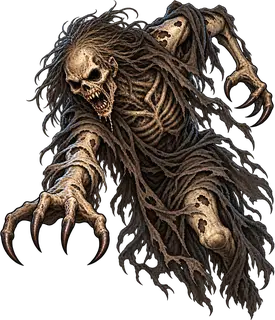
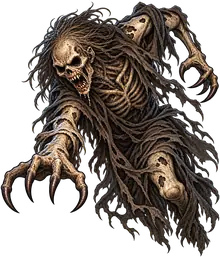
asset: replace graveyard event ghoul with lunging artwork

diff --git a/test_today_20261002.js b/test_today_20261002.js
@@ -444,7 +444,7 @@ assert(battle.includes('(fromMap || fromEvent) && selectedAllySlugs.length'));
 
 assert(mapHtml.includes('id="graveyardStoryArtwork"'));
 assert(mapHtml.includes('id="graveyardStoryGhoulLayer"'), "graveyard event must keep the ghoul as a separate reveal layer");
-assert(mapHtml.includes('src="art/v2-style/map-test/events/graveyard-child-ghoul-event-v3.webp?v=1"'), "graveyard ghoul layer must preload the new event artwork");
+assert(mapHtml.includes('src="art/v2-style/map-test/events/graveyard-child-ghoul-event-v3.webp?v=2"'), "graveyard ghoul layer must preload the new event artwork");
 assert(mapHtml.includes('id="graveyardStoryEffectText"'));
 assert(mapHtml.includes('class="tile-event-enter graveyard-story-choice-button"'));
 assert(mapHtml.includes('class="graveyard-story-frame" src="art/v2-style/ui/intro-dialogue-box.webp?v=6"'));
@@ -453,7 +453,7 @@ assert(map.includes('graveyardStoryGhoulLayer: document.getElementById("graveyar
 assert(map.includes('const GRAVEYARD_EVENT_BASE_ART ='));
 assert(map.includes('"art/v2-style/map-test/events/graveyard-child-base-v3.webp?v=1"'));
 assert(map.includes('const GRAVEYARD_EVENT_GHOUL_ART ='));
-assert(map.includes('"art/v2-style/map-test/events/graveyard-child-ghoul-event-v3.webp?v=1"'), "graveyard story must use the new lunging ghoul artwork");
+assert(map.includes('"art/v2-style/map-test/events/graveyard-child-ghoul-event-v3.webp?v=2"'), "graveyard story must use the new lunging ghoul artwork");
 assert(!map.includes("GRAVEYARD_EVENT_GHOUL_CHUNKS"), "production story must not reconstruct the ghoul from text chunks");
 assert(!map.includes("loadGraveyardGhoulSource"), "obsolete ghoul chunk loader must stay removed");
 assert(!map.includes("ghoul-hq/part-"), "obsolete HQ chunk paths must stay removed");
@@ -478,7 +478,7 @@ assert(mapCss.includes("image-rendering:auto!important"), "browser must use norm
 assert(mapCss.includes("scale(.86)"), "ghoul reveal must begin slightly recessed before lunging into place");
 assert(mapCss.includes("top:39%!important"), "choice buttons must stay above the dialogue window");
 assert(worker.includes("./art/v2-style/map-test/events/graveyard-child-base-v3.webp?v=1"));
-assert(worker.includes("./art/v2-style/map-test/events/graveyard-child-ghoul-event-v3.webp?v=1"), "new graveyard ghoul artwork must be cached");
+assert(worker.includes("./art/v2-style/map-test/events/graveyard-child-ghoul-event-v3.webp?v=2"), "new graveyard ghoul artwork must be cached");
 assert(!worker.includes("ghoul-hq/part-"), "obsolete reconstructed ghoul chunks must not be cached");
 assert(!worker.includes("graveyard-child-ghoul-v2.webp"), "old low-quality ghoul must not be cached");
 assert(map.includes("el.board.appendChild(el.graveyardStoryEvent)"));

diff --git a/v2-map-practice.html b/v2-map-practice.html
@@ -432,7 +432,7 @@
         <div class="graveyard-story-stage" role="dialog" aria-modal="true" aria-label="습격받는 아이 사건">
           <div class="graveyard-story-art-wrap" aria-hidden="true">
             <img id="graveyardStoryArtwork" class="graveyard-story-artwork" src="art/v2-style/map-test/events/graveyard-child-base-v3.webp?v=1" alt="">
-            <img id="graveyardStoryGhoulLayer" class="graveyard-story-ghoul-layer" src="art/v2-style/map-test/events/graveyard-child-ghoul-event-v3.webp?v=1" alt="" hidden>
+            <img id="graveyardStoryGhoulLayer" class="graveyard-story-ghoul-layer" src="art/v2-style/map-test/events/graveyard-child-ghoul-event-v3.webp?v=2" alt="" hidden>
           </div>
           <aside class="graveyard-story-effect-box legion-info-panel" aria-live="polite" aria-label="사건 효과 정보">
             <img class="graveyard-story-effect-frame legion-info-frame-art" src="art/v2-style/ui/legion-info-window-hd.png?v=2" alt="" aria-hidden="true">

diff --git a/service-worker.js b/service-worker.js
@@ -1,4 +1,4 @@
-const CACHE_NAME = "necromancer-and-dice-v2-20261007-graveyard-base-hq-1";
+const CACHE_NAME = "necromancer-and-dice-v2-20261007-graveyard-ghoul-attack-2";
 
 const CORE_ASSETS = [
   "./",
@@ -63,7 +63,7 @@ const CORE_ASSETS = [
   "./assets/event-lab/graveyard-child/ghoul/part-000.txt",
   "./assets/event-lab/graveyard-child/ghoul/part-001.txt",
   "./art/v2-style/map-test/events/graveyard-child-base-v3.webp?v=1",
-  "./art/v2-style/map-test/events/graveyard-child-ghoul-event-v3.webp?v=1",
+  "./art/v2-style/map-test/events/graveyard-child-ghoul-event-v3.webp?v=2",
 
 
 

diff --git a/v2-map-practice.js b/v2-map-practice.js
@@ -4426,7 +4426,7 @@
   const GRAVEYARD_EVENT_BASE_ART =
     "art/v2-style/map-test/events/graveyard-child-base-v3.webp?v=1";
   const GRAVEYARD_EVENT_GHOUL_ART =
-    "art/v2-style/map-test/events/graveyard-child-ghoul-event-v3.webp?v=1";
+    "art/v2-style/map-test/events/graveyard-child-ghoul-event-v3.webp?v=2";
   let graveyardStoryArtReady = null;
 
   async function decodeGraveyardStoryImage(img, src) {
